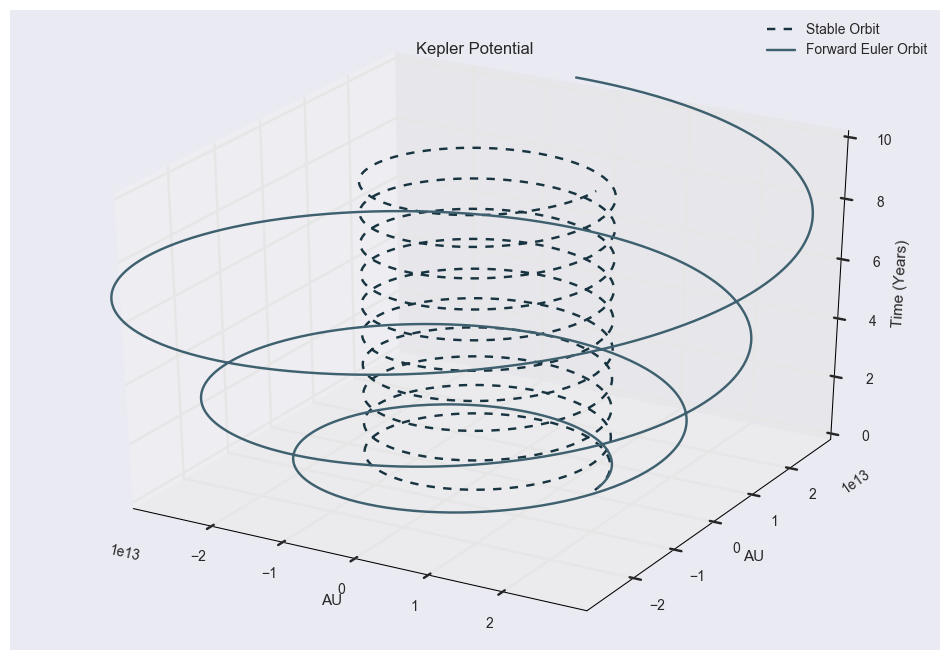
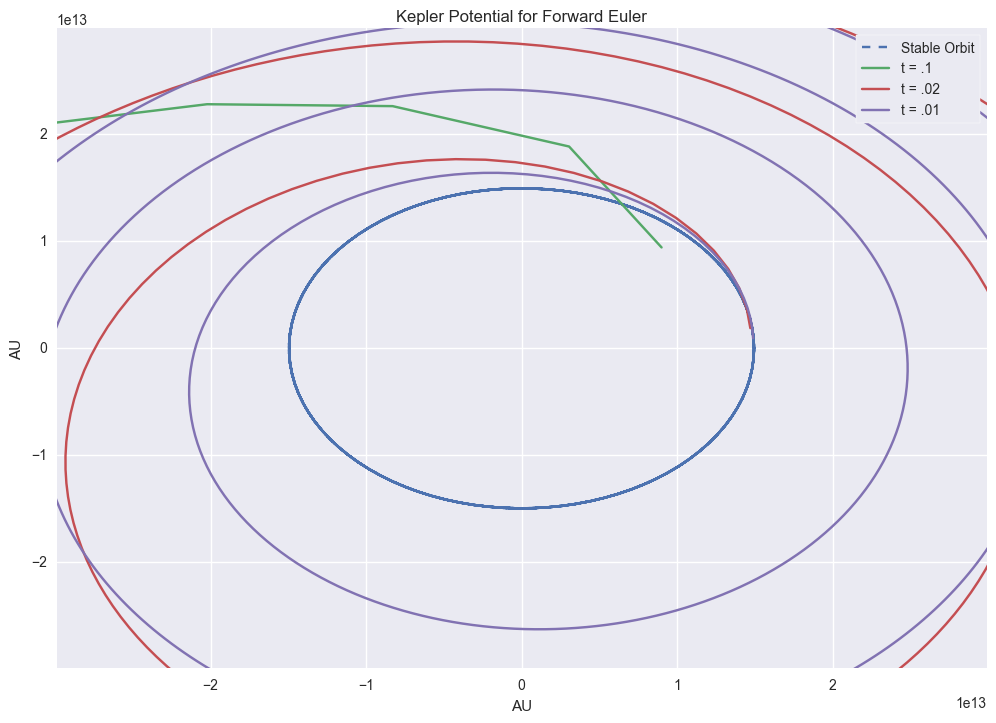
Add 2D orbit plots

diff --git a/eulerMethods/eulermethods.py b/eulerMethods/eulermethods.py
@@ -4,6 +4,9 @@ import matplotlib.pyplot as plt
 import seaborn as sns
 import pandas as pd
 from mpl_toolkits.mplot3d import Axes3D
+
+sns.set(style="whitegrid")
+
 #CONSTANTS
 GM = 6.673e-8*2.e33 #gravitational constant * solar mass
 au = 1.495e13 #astronomical unit
@@ -11,7 +14,7 @@ year = 3.1557e7 #tropical year (see https://en.wikipedia.org/wiki/Tropical_year)
 kms = 1.0e5 #km/s
 ecc = 0 #eccentricty of orbit
 tmax = 10.*year #maximum time
-nsteps = 1000 #number of steps to take
+nsteps = 100 #number of steps to take
 dt = tmax/nsteps #change in time per step (take smaller steps for more data and visa versa)
 an = [0, 0] #acceleration 
 
@@ -46,7 +49,7 @@ def writeOrbits():
     t = 0 #time counter
     outFormat = "{0},{1},{2},{3},{4},{5}\n"
     
-    with open("fwdEulerOrbit.out", "w+") as outFile:
+    with open("fwdEulerOrbit-{}.out".format(nsteps), "w+") as outFile:
         outFile.write(outFormat.format('#', 't', 'x', 'y', 'vx', 'vy'))
         xn, vn = modEuler(xn, vn, an) #first step is a modified Euler to setup the accleration (this is sorta a dirty hack)
         t += dt
@@ -59,7 +62,7 @@ def writeOrbits():
     xn = [au, 0] 
     vn = [0, np.sqrt(GM/au * (1.-ecc)/(1.+ecc))]
     t = 0
-    with open("modEulerOrbit.out", "w+") as outFile:
+    with open("modEulerOrbit-{}.out".format(nsteps), "w+") as outFile:
         outFile.write(outFormat.format('#', 't', 'x', 'y', 'vx', 'vy'))
         xn, vn = modEuler(xn, vn, an)
         t += dt
@@ -69,41 +72,58 @@ def writeOrbits():
             t += dt
             outFile.write(outFormat.format(i, t/year, xn[0], xn[1], vn[0], vn[1]))
 
-def xy(r, phi):
+def stableOrbit(r, phi):
     return r*np.cos(phi), r*np.sin(phi)
+
+def plotStbOrbit(number):
+    phis = np.linspace(0, np.pi*2, number/(tmax/year))
+    stableX = []
+    stableY = []
+    for i in range (0, int(tmax/year)):
+        sX, sY = stableOrbit(1*au, phis)    
+        stableX = np.append(stableX, sX)
+        stableY = np.append(stableY, sY)
+    stableX = stableX[:len(stableX)-1]
+    stableY = stableY[:len(stableY)-1]
+    return stableX, stableY
 
 def makePlots():
     """makes the plots"""
     fig = plt.figure()
-    ax = fig.gca(projection="3d")
-    fwdEulerOrbit = pd.read_csv("fwdEulerOrbit.out")
-    modEulerOrbit = pd.read_csv("modEulerOrbit.out")
+    ax = fig.gca()
+    fwdEulerOrbit100 = pd.read_csv("fwdEulerOrbit-100.out")
+    modEulerOrbit100 = pd.read_csv("modEulerOrbit-100.out")
     
-    phis = np.linspace(0, np.pi*2, nsteps/(tmax/year))
-    stableX = []
-    stableY = []
-    for i in range (0, int(tmax/year)):
-        sX, sY = xy(1*au, phis)    
-        stableX = np.append(stableX, sX)
-        stableY = np.append(stableY, sY)
-
-    stableX = stableX[:len(stableX)-1]
-    stableY = stableY[:len(stableY)-1]
+    fwdEulerOrbit500 = pd.read_csv("fwdEulerOrbit-500.out")
+    modEulerOrbit500 = pd.read_csv("modEulerOrbit-500.out")
+    
+    fwdEulerOrbit1000 = pd.read_csv("fwdEulerOrbit-1000.out")
+    modEulerOrbit1000 = pd.read_csv("modEulerOrbit-1000.out")
+    
+    stableX, stableY = plotStbOrbit(1000)
 
     
-    ax.plot(stableX, stableY, modEulerOrbit["t"], label="Stable Orbit", linestyle="dashed", color="#193441")
-    ax.plot(fwdEulerOrbit["x"], fwdEulerOrbit["y"], fwdEulerOrbit["t"], label="Forward Euler Orbit", color="#3E606F")
-    ax.plot(modEulerOrbit["x"], modEulerOrbit["y"], modEulerOrbit["t"], label="Modified Euler Orbit", color="#91AA9D")
+    ax.plot(stableX, stableY, label="Stable Orbit", linestyle="dashed")
+    #ax.plot(fwdEulerOrbit100["x"], fwdEulerOrbit100["y"], label="t = .1")
+    #ax.plot(fwdEulerOrbit500["x"], fwdEulerOrbit500["y"], label="t = .02")
+    #ax.plot(fwdEulerOrbit1000["x"], fwdEulerOrbit1000["y"], label="t = .01")
+    
+    ax.plot(modEulerOrbit100["x"], modEulerOrbit100["y"], label="t = .1")
+    ax.plot(modEulerOrbit500["x"], modEulerOrbit500["y"], label="t = .02")
+    ax.plot(modEulerOrbit1000["x"], modEulerOrbit1000["y"], label="t = .01")
+    
+    
+    #ax.plot(modEulerOrbit["x"], modEulerOrbit["y"], modEulerOrbit["t"], label="Modified Euler Orbit", color="#91AA9D")
     ax.set_xlim(-2.0*au,2.0*au)
     ax.set_ylim(-2.0*au, 2.0*au)
     ax.set_xlabel("AU")
     ax.set_ylabel("AU")
-    ax.set_zlabel("Time (Years)")
-    ax.set_title("Kepler Potential")
-    ax.legend()
+#    ax.set_zlabel("Time (Years)")
+    ax.set_title("Kepler Potential for Forward Euler")
+    ax.legend(frameon=True)
     fig.set_size_inches(12, 8, forward=True)
     plt.savefig("stableModEuler.png", format='png', bbox_inches='tight')
     
 
-writeOrbits()
+#writeOrbits()
 makePlots()

diff --git a/eulerMethods/eulerMethodsRewrite.md b/eulerMethods/eulerMethodsRewrite.md
@@ -1,0 +1,51 @@
+*Since I ended up taking a computational astrophysics class this semester, I decided that it might be good to write up a reference for myself and any other undergraduates who plan on flailing their way through a graduate level computational astrophysics class in the future. So this is the first in a series throughout the semester on astrophysics simulations.*
+
+Astrophysics simulations are extremely complex beasts, often utilizing massive codebases like [flash][flash] or [ZEUS][ZEUS] to simulate a variety of cosmic evolutions over time. In this post, we'll start small with `matplotlib` and python to evolve the orbit of the Earth around the Sun in a ten year period on a 2D plane. To accomplish this, we need to solve a couple equations belonging to the [Keplerian Potenial][keplerProblem]. The basics of the Keplerian Potential is that there's two bodies, with one body orbiting around the other. Assuming no other forces outside of gravity, the stable orbit with an eccentricity of 0 is a circle (the Earth's orbit is actually ~0.0167, but we'll make it 0 to keep things easy on ourselves). We'll start by making a few constants known:
+
+*this is just chunks of code, the full code can be found on [github][github]*
+
+        #CONSTANTS
+        GM = 6.673e-8*2.e33 #gravitational constant * solar mass
+        au = 1.495e13 #astronomical unit
+        year = 3.1557e7 #tropical year (see https://en.wikipedia.org/wiki/Tropical_year)
+        kms = 1.0e5 #km/s
+        ecc = 0 #eccentricty of orbit
+        tmax = 10.*year #maximum time
+        nsteps = 100 #number of steps to take
+        dt = tmax/nsteps #change in time per step (take smaller steps for more data and visa versa)
+        an = [0, 0] #acceleration
+
+
+Next, we need to plot the a circle with radius of 1 AU around the center of the graph, so we'll write a function to generate a basic circle and stick it onto a 2D plane represented by 2 arrays. 
+        
+        def stableOrbit(r, phi):
+            return r*np.cos(phi), r*np.sin(phi)
+        
+        def plotStbOrbit(number):
+            phis = np.linspace(0, np.pi*2, number/(tmax/year))
+            stableX = []
+            stableY = []
+            for i in range (0, int(tmax/year)):
+                sX, sY = stableOrbit(1*au, phis)    
+                stableX = np.append(stableX, sX)
+                stableY = np.append(stableY, sY)
+            stableX = stableX[:len(stableX)-1]
+            stableY = stableY[:len(stableY)-1]
+            return stableX, stableY
+
+We'll use 1000 for the number, that way we have 1000 timesteps for 10 years. Now we have the final solution, we can begin modeling. We'll use something called [Euler methods][eulerWikipedia] for this. 
+
+[^1]: The code can be found at https://github.com/peixian/simuations/blob/master/eulerMethods/eulermethods.py
+
+[github]: https://github.com/peixian/simuations/blob/master/eulerMethods/eulermethods.py
+[flash]: http://flash.uchicago.edu/
+[ZEUS]: http://www.astro.princeton.edu/~jstone/zeus.html
+[eulerWikipedia]: https://en.wikipedia.org/wiki/Euler_method
+[stable]: https://raw.githubusercontent.com/peixian/simuations/master/eulerMethods/stable.png
+[stableAndFwd]: https://raw.githubusercontent.com/peixian/simuations/master/eulerMethods/stableFwdEuler.png
+[stableAndMod]: https://raw.githubusercontent.com/peixian/simuations/master/eulerMethods/stableModEuler.png
+[forwardEuler]: https://raw.githubusercontent.com/peixian/simuations/master/eulerMethods/fwdEuler.png
+[modEuler]: https://raw.githubusercontent.com/peixian/simuations/master/eulerMethods/modEuler.png
+[comparisonPng]: https://raw.githubusercontent.com/peixian/simuations/master/eulerMethods/fwdModEuler3d.png
+[keplerProblem]: https://en.wikipedia.org/wiki/Kepler_problem
+[symplecticWikipedia]: https://en.wikipedia.org/wiki/Symplectic_integrator
